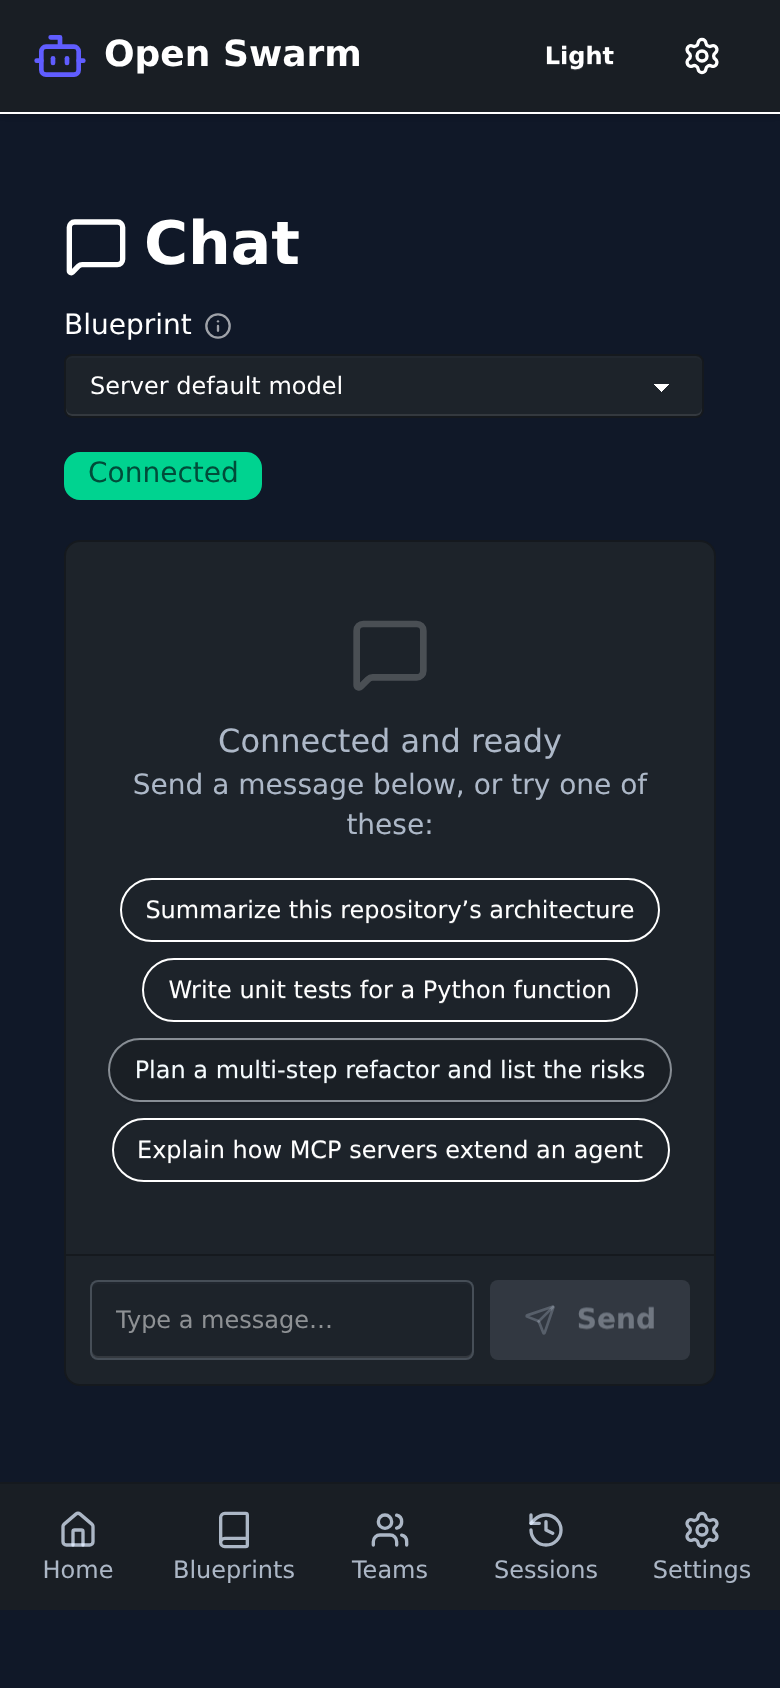
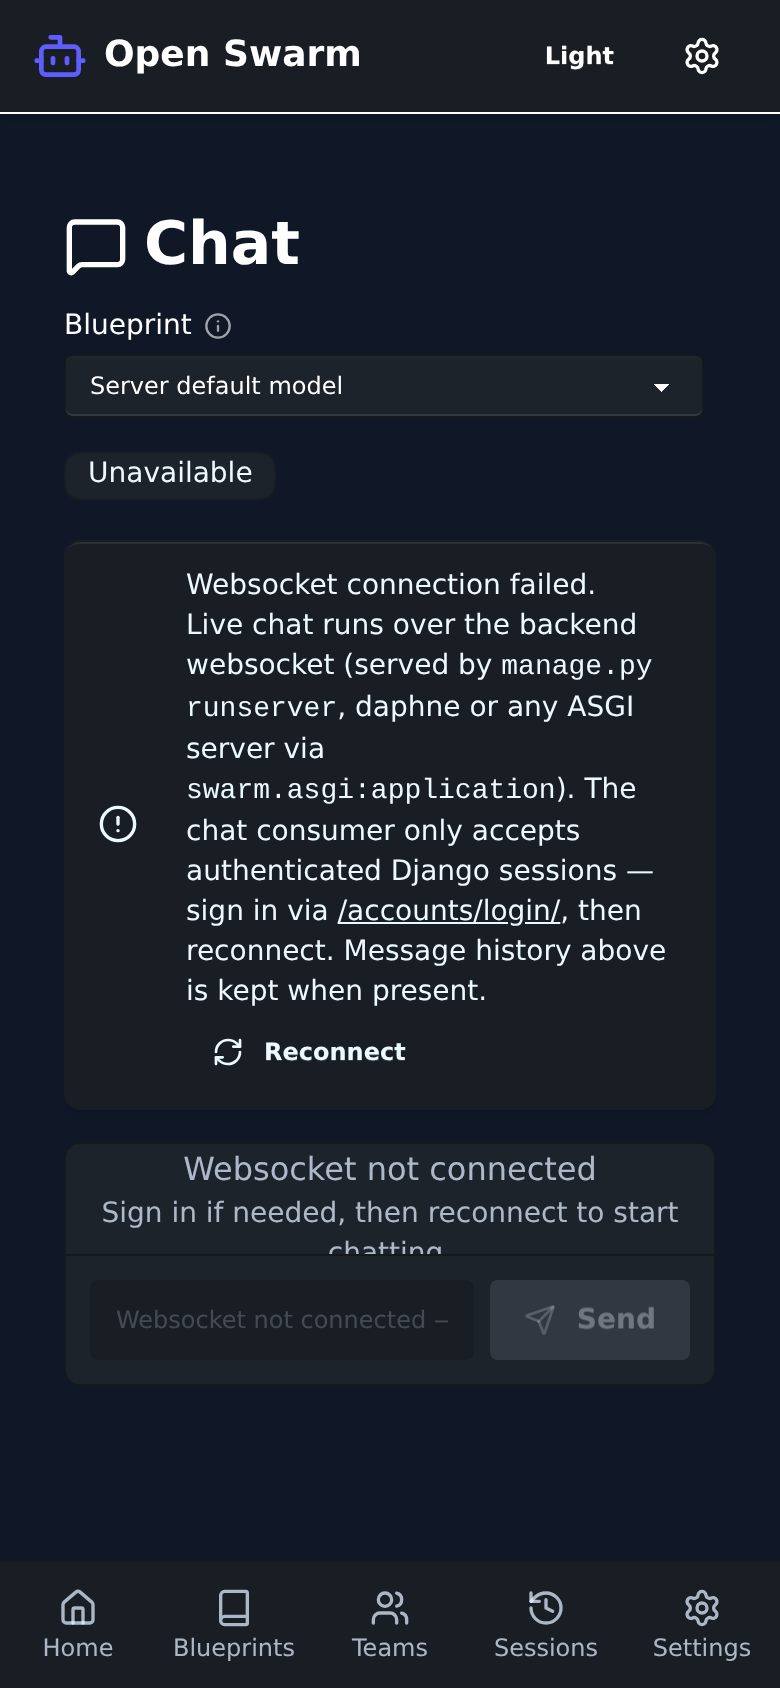
Polish: chat auth honesty, Team Launcher a11y, spa-chat recapture
Clarify SPA chat Unavailable/failed gate + login CTA, harden Team Launcher
buttons/alerts/empty state, drop unused django import, fix whitespace, and
recapture spa-chat PNGs after rebuild so captions match the UI.

diff --git a/webui/frontend/src/pages/ChatPage.tsx b/webui/frontend/src/pages/ChatPage.tsx
@@ -207,11 +207,10 @@ const ChatPage = () => {
                 <span
                   className="tooltip tooltip-bottom before:max-w-[18rem] before:whitespace-normal"
                   data-tip="Sent with every message — the selected blueprint generates the reply. Choose “Server default model” to use the server-configured model instead."
+                  role="img"
+                  aria-label="Blueprint selection note"
                 >
-                  <Info
-                    className="h-3.5 w-3.5 opacity-60"
-                    aria-label="Blueprint selection note"
-                  />
+                  <Info className="h-3.5 w-3.5 opacity-60" aria-hidden="true" />
                 </span>
               </div>
               <select
@@ -255,12 +254,15 @@ const ChatPage = () => {
             <p className="text-sm">
               Live chat runs over the backend websocket (served by{' '}
               <code>manage.py runserver</code>, daphne or any ASGI server via{' '}
-              <code>swarm.asgi:application</code>), and the chat consumer only
-              accepts authenticated Django sessions. Your message history
-              above is kept; reconnect when the server is available.
+              <code>swarm.asgi:application</code>). The chat consumer only
+              accepts authenticated Django sessions — sign in via{' '}
+              <a href="/accounts/login/" className="link">
+                /accounts/login/
+              </a>
+              , then reconnect. Message history above is kept when present.
             </p>
             <Button size="sm" variant="ghost" onClick={reconnect}>
-              <RefreshCw className="h-4 w-4 mr-1" />
+              <RefreshCw className="h-4 w-4 mr-1" aria-hidden="true" />
               Reconnect
             </Button>
           </div>
@@ -278,7 +280,7 @@ const ChatPage = () => {
         >
           {messages.length === 0 ? (
             <div className="flex h-full flex-col items-center justify-center gap-3 text-center">
-              <MessageSquare className="h-10 w-10 opacity-20" />
+              <MessageSquare className="h-10 w-10 opacity-20" aria-hidden="true" />
               <div>
                 <p className="font-medium text-base-content/70">
                   {status === 'open'
@@ -292,7 +294,7 @@ const ChatPage = () => {
                     ? 'Send a message below, or try one of these:'
                     : status === 'connecting'
                       ? 'Hang tight — this usually takes a moment.'
-                      : 'No messages yet — reconnect to start chatting.'}
+                      : 'Sign in if needed, then reconnect to start chatting.'}
                 </p>
               </div>
               {status === 'open' && (
@@ -360,7 +362,7 @@ const ChatPage = () => {
             {isStreaming ? (
               <LoadingSpinner size="sm" className="mr-1" />
             ) : (
-              <Send className="h-4 w-4 mr-1" />
+              <Send className="h-4 w-4 mr-1" aria-hidden="true" />
             )}
             Send
           </Button>
@@ -382,7 +384,7 @@ function ConnectionBadge({ status }: { status: ConnectionStatus }) {
     case 'open':
       return <Badge type="success">Connected</Badge>
     case 'closed':
-      return <Badge type="error">Disconnected</Badge>
+      return <Badge type="error">Disconnected — login required</Badge>
     case 'failed':
       return <Badge type="error">Unavailable</Badge>
   }

diff --git a/src/swarm/templates/teams_launch.html b/src/swarm/templates/teams_launch.html
@@ -27,7 +27,7 @@
         {% if api_auth_enabled %}
         <div class="col-12">
           <label for="tokenInput" class="form-label">API Token (Bearer) — saved locally</label>
-          <input id="tokenInput" class="form-control" placeholder="Paste token for API auth" />
+          <input id="tokenInput" class="form-control" type="password" autocomplete="off" placeholder="Paste token for API auth" />
           <div class="form-text">Saved in browser localStorage as 'swarm_api_token'.</div>
         </div>
         {% endif %}
@@ -36,12 +36,12 @@
           <textarea id="instruction" class="form-control" rows="4" placeholder="Describe the task for the team…"></textarea>
         </div>
         <div class="col-12 d-flex align-items-center gap-2">
-          <button id="launchBtn" class="btn btn-primary">
-            <span class="launch-label"><i class="fas fa-rocket me-1"></i>Launch</span>
-            <span class="launch-spinner" style="display:none;"><i class="fas fa-spinner fa-spin me-1"></i>Launching…</span>
+          <button type="button" id="launchBtn" class="btn btn-primary">
+            <span class="launch-label"><i class="fas fa-rocket me-1" aria-hidden="true"></i>Launch</span>
+            <span class="launch-spinner" style="display:none;"><i class="fas fa-spinner fa-spin me-1" aria-hidden="true"></i>Launching…</span>
           </button>
-          <button id="clearBtn" class="btn btn-outline-secondary">Clear Output</button>
-          <span id="launchError" class="text-danger small ms-1" style="display:none;"></span>
+          <button type="button" id="clearBtn" class="btn btn-outline-secondary">Clear Output</button>
+          <span id="launchError" class="text-danger small ms-1" style="display:none;" role="alert"></span>
         </div>
       </div>
     </div>
@@ -52,11 +52,11 @@
     <div class="card-header d-flex align-items-center gap-2">
       <i class="fas fa-stream text-muted"></i>
       <span>Output</span>
-      <span id="streamStatus" class="os-chip ms-auto" style="display:none;"><span class="live-dot"></span>Streaming…</span>
+      <span id="streamStatus" class="os-chip ms-auto" style="display:none;" role="status"><span class="live-dot" aria-hidden="true"></span>Streaming…</span>
     </div>
     <div class="card-body p-0">
-      <div id="outputEmpty" class="os-empty">
-        <div class="os-empty-icon"><i class="fas fa-stream"></i></div>
+      <div id="outputEmpty" class="os-empty" role="status">
+        <div class="os-empty-icon" aria-hidden="true"><i class="fas fa-stream"></i></div>
         Output will stream here once you launch a team.
       </div>
       <pre id="output" class="mb-0 p-3" style="display:none; min-height: 220px; white-space: pre-wrap; overflow:auto; background: var(--os-well); border-radius: 0 0 var(--os-radius) var(--os-radius);"></pre>

diff --git a/src/swarm/services/secure_subprocess.py b/src/swarm/services/secure_subprocess.py
@@ -19,17 +19,17 @@ def execute_command_safe(
 ) -> subprocess.CompletedProcess:
     """
     Execute a command safely without shell=True vulnerability.
-    
+
     Args:
         command: Command as list of arguments or string to parse
         timeout: Timeout in seconds
         capture_output: Capture stdout and stderr
         text: Return output as string (True) or bytes (False)
         check: Raise CalledProcessError if command fails
-        
+
     Returns:
         CompletedProcess with result
-        
+
     Raises:
         ValueError: If command is empty or invalid
         subprocess.TimeoutExpired: If command times out
@@ -73,16 +73,16 @@ def execute_command_with_fallback(
 ) -> Tuple[subprocess.CompletedProcess, bool]:
     """
     Execute command with fallback for compatibility.
-    
+
     Args:
         command: Command as list or string
         timeout: Timeout in seconds
         capture_output: Capture stdout and stderr
         text: Return output as string
-        
+
     Returns:
         Tuple of (result, used_fallback)
-        
+
     Note:
         First tries safe execution, falls back to shell=True only if necessary
         for compatibility with complex shell features (not recommended)
@@ -113,10 +113,10 @@ def execute_command_with_fallback(
 def validate_command_safety(command: List[str] | str) -> bool:
     """
     Validate command for security best practices.
-    
+
     Args:
         command: Command to validate
-        
+
     Returns:
         True if command appears safe, False if potential issues found
     """
@@ -152,10 +152,10 @@ def validate_command_safety(command: List[str] | str) -> bool:
 def sanitize_environment(env: Optional[dict] = None) -> dict:
     """
     Sanitize environment variables for subprocess execution.
-    
+
     Args:
         env: Optional environment dict to sanitize
-        
+
     Returns:
         Sanitized environment dictionary
     """
@@ -180,7 +180,7 @@ def sanitize_environment(env: Optional[dict] = None) -> dict:
 class SecureCommandExecutor:
     """
     Context manager for secure command execution.
-    
+
     Provides additional safety checks and logging.
     """
 

diff --git a/src/swarm/extensions/mcp/mcp_client.py b/src/swarm/extensions/mcp/mcp_client.py
@@ -205,10 +205,10 @@ class MCPClient:
     async def get_resource(self, resource_uri: str) -> Any:
         """
         Retrieve a specific resource from the MCP server.
-        
+
         Args:
             resource_uri (str): The URI of the resource to retrieve.
-        
+
         Returns:
             Any: The resource retrieval response.
         """

diff --git a/src/swarm/extensions/mcp/cache_utils.py b/src/swarm/extensions/mcp/cache_utils.py
@@ -16,7 +16,6 @@ def get_cache():
     returns a DummyCache instance.
     """
     try:
-        import django
         from django.conf import settings
         from django.core.cache import cache as django_cache
         from django.core.exceptions import ImproperlyConfigured

diff --git a/docs/SCREENSHOTS.md b/docs/SCREENSHOTS.md
@@ -17,7 +17,7 @@ full-page PNGs.
 | File | Page / URL | What it shows | Used in | Captured | Status |
 | --- | --- | --- | --- | --- | --- |
 | `landing.png` | `/` (React SPA dashboard) | Counts 0/53/53; Quick Actions **Launch Team / Browse Blueprints / Manage Teams / Settings**; nav Home·Blueprints·Teams·Sessions·Settings (matches App.tsx) | USER_JOURNEY.md, GUIDED_TOUR.md, README.md | 2026-08-18 | current |
-| `spa-chat.png` | `/chat` (React SPA) | **Disconnected** login gate (“login required for websocket” / “Log in to send messages”); differs from `mobile/spa-chat.png` (Connected composer) | GUIDED_TOUR.md | 2026-08-18 | current |
+| `spa-chat.png` | `/chat` (React SPA) | **Unavailable** / websocket failed gate; auth session required (`/accounts/login/`); differs from `mobile/spa-chat.png` when that frame stays Connected | GUIDED_TOUR.md | 2026-08-18 | current |
 | `spa-teams.png` | `/teams` → **`/teams/launch/`** | Redirect capture + sticky “Redirected: …” banner over Team Launcher | GUIDED_TOUR.md | 2026-08-18 | current |
 | `spa-blueprints.png` | `/blueprints` → **`/blueprint-library/`** | Redirect capture + banner over Blueprint Library | GUIDED_TOUR.md | 2026-08-18 | current |
 | `spa-settings.png` | `/settings` → **`/settings/`** | Redirect capture + banner over Settings Dashboard | GUIDED_TOUR.md | 2026-08-18 | current |
@@ -47,13 +47,14 @@ Same stems as desktop with `--mobile` (iPhone-14-class: 390×844, dpr 2, touch).
   **Home · Blueprints · Teams · Sessions · Settings** (matches App.tsx).
 * Bare SPA paths still **redirect** to Django; `spa-*` redirect captures keep
   the sticky “Redirected: …” banner over the Django landing (five-tab bar).
-* Desktop `spa-chat.png` = **Disconnected** login gate; `mobile/spa-chat.png` =
-  **Connected** composer (different session/auth state — not the same frame).
+* Desktop `spa-chat.png` = **Unavailable** / websocket-failed gate (auth
+  required); `mobile/spa-chat.png` may still show a **Connected** composer
+  when a session cookie survives (different frame, not guaranteed).
 
 | File | Page / URL | Mobile-specific notes | Captured | Status |
 | --- | --- | --- | --- | --- |
 | `mobile/landing.png` | `/` | Stat cards stack; Quick Actions **Launch Team / Browse Blueprints / Manage Teams / Settings**; **5-tab dock** Home · Blueprints · Teams · Sessions · Settings (Home active; matches App.tsx) | 2026-08-18 | current |
-| `mobile/spa-chat.png` | `/chat` | **Connected** composer + blueprint selector (`django_chat`); **5-tab dock** Home · Blueprints · Teams · Sessions · Settings (Chat is SPA-only, not a dock tab). Differs from desktop `spa-chat.png` (disconnected login gate) | 2026-08-18 | current |
+| `mobile/spa-chat.png` | `/chat` | Often **Connected** composer + blueprint selector when cookie survives; **5-tab dock** (Chat is SPA-only, not a dock tab). Differs from desktop Unavailable gate | 2026-08-18 | current |
 | `mobile/spa-teams.png` | `/teams` → **`/teams/launch/`** | Redirect banner + Team Launcher; Django **5-tab** bar (Teams active) | 2026-08-18 | current |
 | `mobile/spa-blueprints.png` | `/blueprints` → **`/blueprint-library/`** | Redirect banner + single-column cards; Django **5-tab** (Blueprints active) | 2026-08-18 | current |
 | `mobile/spa-settings.png` | `/settings` → **`/settings/`** | Redirect banner over Settings dashboard; Django **5-tab** (Settings active) | 2026-08-18 | current |

diff --git a/docs/GUIDED_TOUR.md b/docs/GUIDED_TOUR.md
@@ -66,13 +66,13 @@ Recaptured after `npm run build` on **2026-08-18**. Mobile
 ![SPA chat: disconnected websocket shell; login required; blueprint selector](./screenshots/spa-chat.png)
 
 *SPA websocket chat (`/ws/…`) with blueprint selector. **Desktop**
-`spa-chat.png` shows the anonymous/disconnected gate: “Disconnected — login
-required for websocket” and “Log in to send messages”. **Mobile**
-`screenshots/mobile/spa-chat.png` is a different frame: **Connected**
-composer with blueprint `django_chat` selected, and the **five-tab dock**
-(Home · Blueprints · Teams · Sessions · Settings; Chat is SPA-only, not a
-dock tab). The consumer rejects anonymous sessions; replies also need
-a working LLM profile.*
+`spa-chat.png` (anonymous capture) shows **Unavailable** / “Websocket
+connection failed” with copy that the consumer requires an authenticated
+Django session (`/accounts/login/`), plus empty-state “Sign in if needed,
+then reconnect…”. **Mobile** `screenshots/mobile/spa-chat.png` can differ
+(Connected composer when the session cookie survives); dock is the
+**five-tab** bar (Home · Blueprints · Teams · Sessions · Settings — Chat is
+SPA-only, not a dock tab). Replies also need a working LLM profile.*
 
 **What you can do:** log in, then pick a blueprint and stream replies. Prefer
 Django Team Launcher for scripted multi-agent runs.
